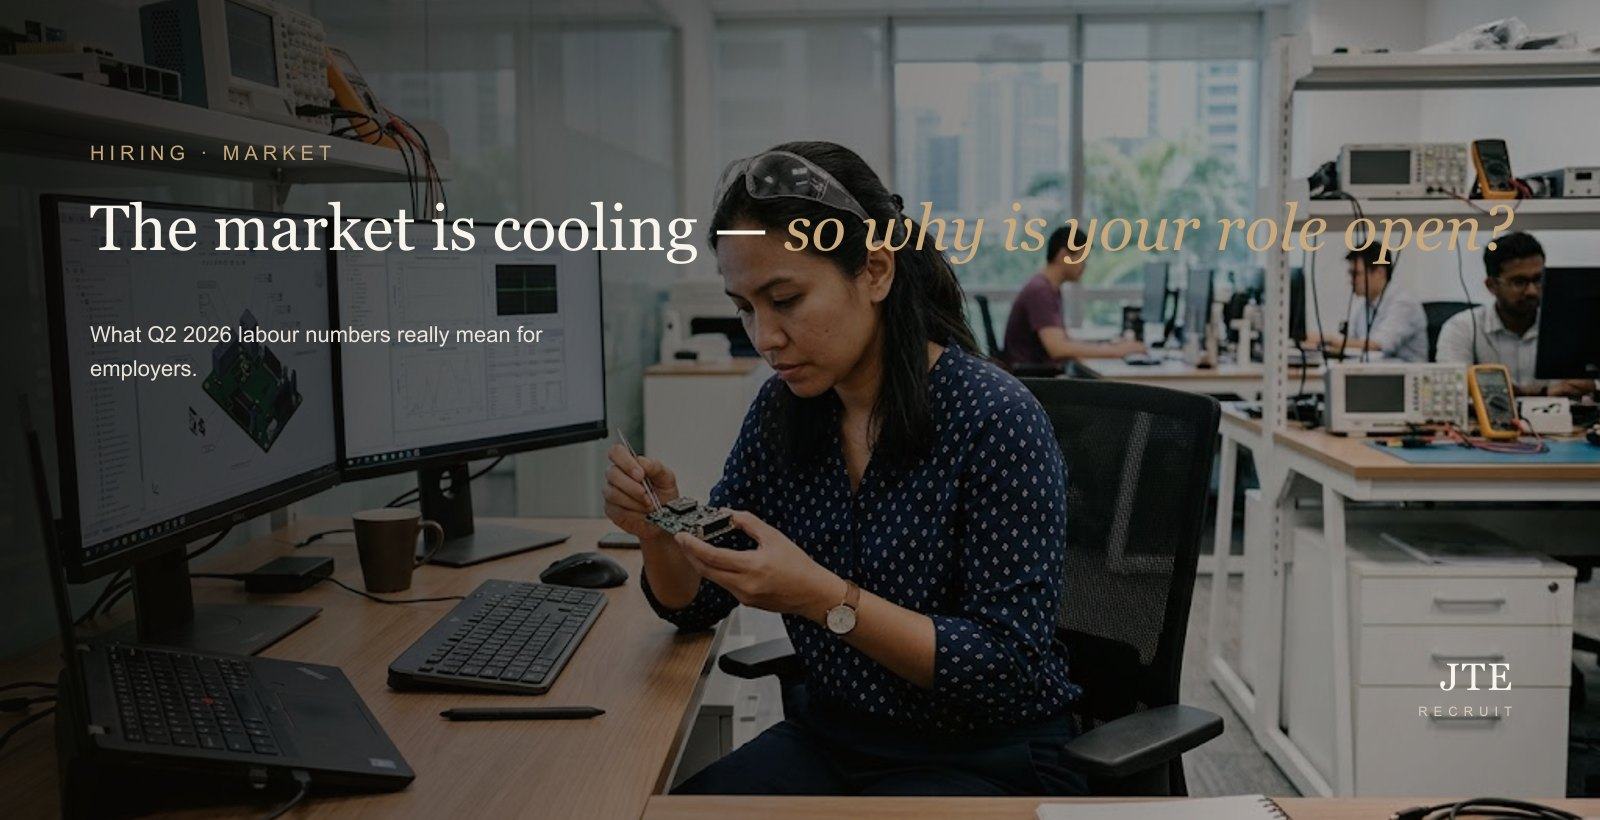
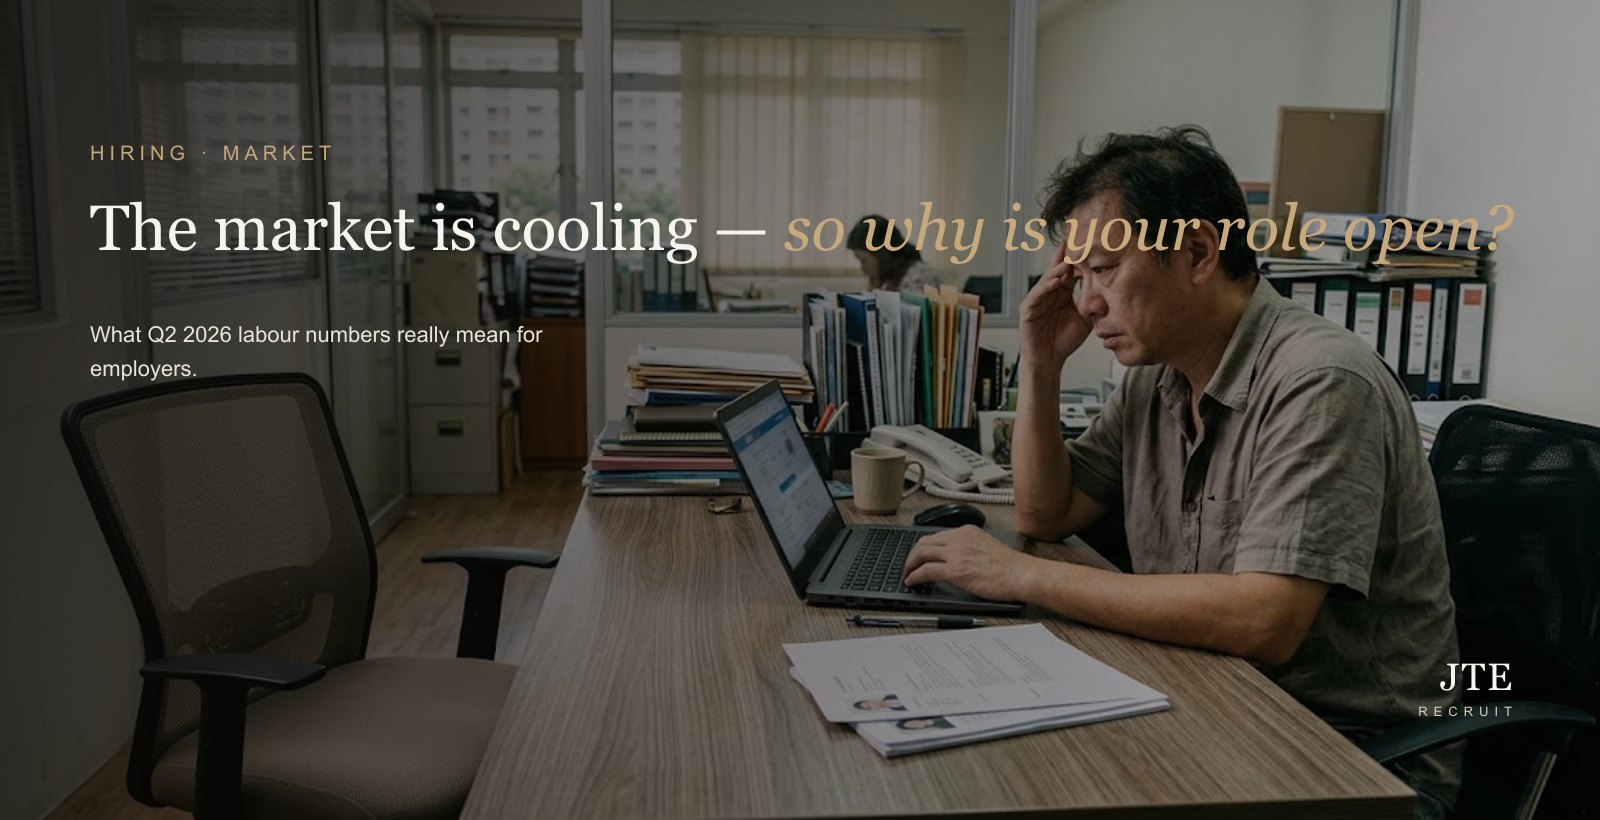
Place final 3 photos: EP in-body (work-pass review), market hero (empty-chair owner) + in-body (shortlist meeting) — all 3 trending articles fully photographed
Claude-Session: https://claude.ai/code/session_01Q3xYBeyJPAcKPVopMAYY2i

diff --git a/blog/employment-pass-compass-changes-2026/index.html b/blog/employment-pass-compass-changes-2026/index.html
@@ -162,6 +162,12 @@
         <p>Since 1 January 2026, the EP minimum qualifying salary is <strong>S$5,600 a month</strong> for most sectors and <strong>S$6,200 a month</strong> for financial services. The catch that surprises people: those are the <em>floor for the youngest applicants</em> &mdash; roughly age 23 &mdash; and the required salary rises progressively with age. By age 45 and above, the benchmark climbs to around <strong>S$10,700 a month</strong> for non-financial roles and about <strong>S$11,800 a month</strong> for financial services.</p>
         <p>So the mistake isn&rsquo;t usually the headline number &mdash; it&rsquo;s assuming the headline number applies to your candidate. An experienced mid-career specialist sits well above the entry floor, and that is often where a budget quietly breaks. Confirm current figures with MOM before you commit to an offer.</p>
 
+        
+
+        <figure class="mb-10">
+            <img src="photo-1.jpg" alt="A hiring manager at her desk studying a work-pass application on screen, hand to her temple, paperwork spread out in a Singapore office" class="w-full rounded-xl" loading="lazy" width="1600" height="900">
+        </figure>
+
         <h2>COMPASS is a second hurdle, not a formality</h2>
         <p>Meeting the salary floor gets you to the start line, not over it. Most EP applications also have to clear <strong>COMPASS</strong>, the points-based framework MOM uses to assess them. In general an application needs to score at least <strong>40 points</strong> to pass, unless it is exempt. Applicants with a fixed monthly salary of at least <strong>S$22,500</strong> are exempt from COMPASS.</p>
         <p>For most everyday hires, you are well below that exemption, so COMPASS applies. It&rsquo;s worth understanding how the points work before you fall in love with a candidate &mdash; our <a href="/blog/employment-pass-s-pass-work-permit-guide/">guide to the Employment Pass, S Pass and Work Permit</a> lays out how the passes differ and where each fits. As always, confirm the current criteria with MOM.</p>

diff --git a/blog/singapore-hiring-market-cooling-2026/index.html b/blog/singapore-hiring-market-cooling-2026/index.html
@@ -183,6 +183,12 @@
         <p>I&rsquo;ll be honest with you about the upside, because there is one. A market that&rsquo;s cooling at the top, but still tight underneath, is a good environment to hire <em>well</em> &mdash; if you treat it right.</p>
         <p>Good people are a fraction more open to a conversation than they were at peak heat, when everyone was being counter-offered into next year. There&rsquo;s a little more room to be deliberate rather than panic-buying the first warm body. But &mdash; and this is the catch &mdash; time-to-hire has lengthened across the board, and the cost of a wrong hire is higher in a slower market, because you can&rsquo;t as easily absorb the lost months or shuffle people around to cover. So the premium shifts from <em>speed at any cost</em> to <em>getting the right person efficiently</em>.</p>
 
+        
+
+        <figure class="mb-10">
+            <img src="photo-1.jpg" alt="Two colleagues in a meeting room reviewing a candidate shortlist on a laptop, one pointing at the screen, hiring notes on the whiteboard behind" class="w-full rounded-xl" loading="lazy" width="1600" height="900">
+        </figure>
+
         <h2>Where a recruiter earns their keep in a soft market</h2>
         <p>This is where I&rsquo;ll make the case plainly, because it&rsquo;s counterintuitive. People assume a softening market is when you need a recruiter <em>least</em> &mdash; surely the candidates will just come? In practice it&rsquo;s when a good recruiter is most clearly an <strong>efficiency play</strong>:</p>
         <ul>

diff --git a/qa-reports/qa-2026-10-15.md b/qa-reports/qa-2026-10-15.md
@@ -1,6 +1,6 @@
 # JTE website QA report — 2026-10-15
 
-Run: 2026-10-15 00:46 UTC · Pages scanned: **96** · **0 FAIL**, **0 WARN**
+Run: 2026-10-15 01:27 UTC · Pages scanned: **96** · **0 FAIL**, **0 WARN**
 
 > ✅ No blocking issues (FAIL) found.
 
